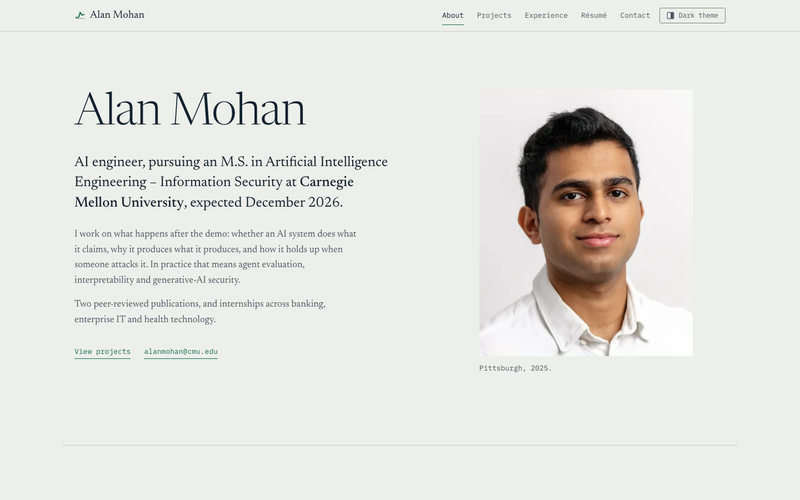
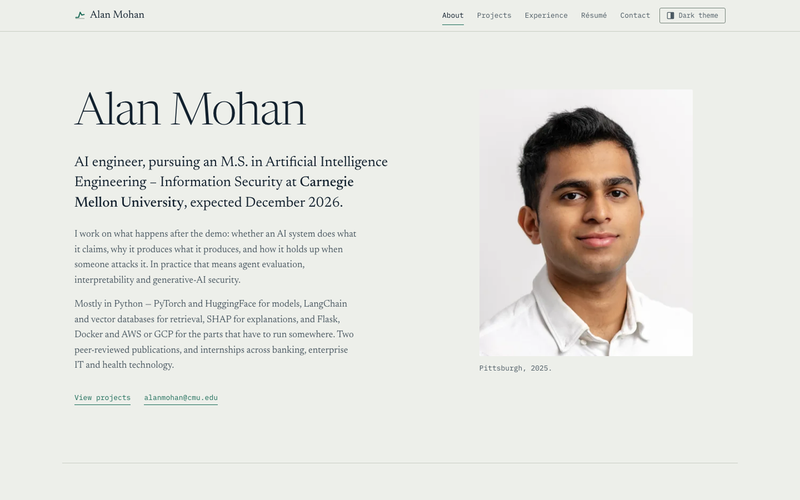
Name the tools I work with in the introduction
Keeps the About copy short while covering the skills the assignment rubric
asks the About section to include.

Changed region(s): [[0.0938, 0.6, 0.4375, 0.75], [0.0938, 0.78, 0.2812, 0.81]]

diff --git a/index.html b/index.html
@@ -122,8 +122,11 @@ try {
           interpretability and generative-AI security.
         </p>
         <p>
-          Two peer-reviewed publications, and internships across banking,
-          enterprise IT and health technology.
+          Mostly in Python — PyTorch and HuggingFace for models, LangChain and
+          vector databases for retrieval, SHAP for explanations, and Flask,
+          Docker and AWS or GCP for the parts that have to run somewhere. Two
+          peer-reviewed publications, and internships across banking, enterprise
+          IT and health technology.
         </p>
       </div>
       <p class="hero__actions">
